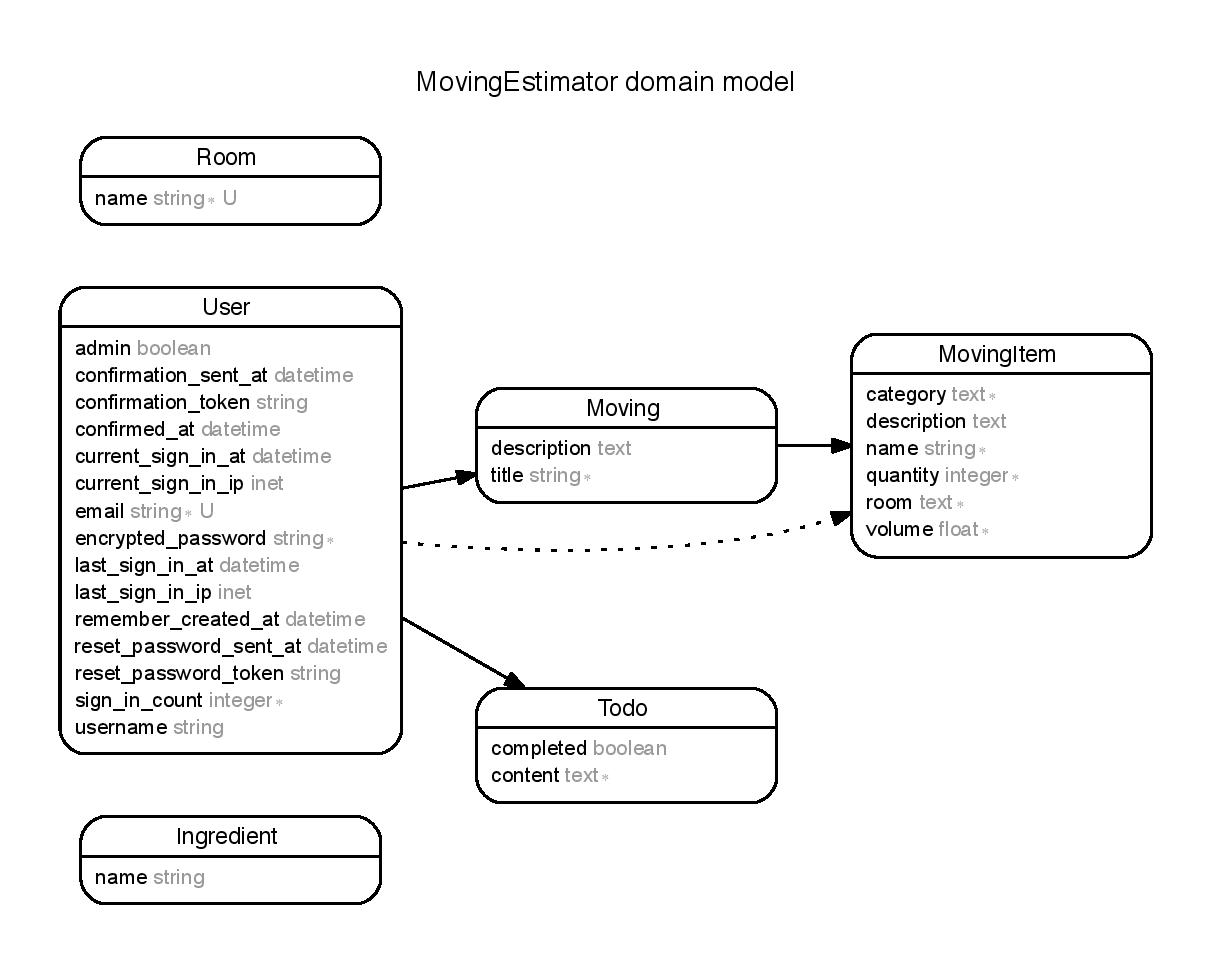
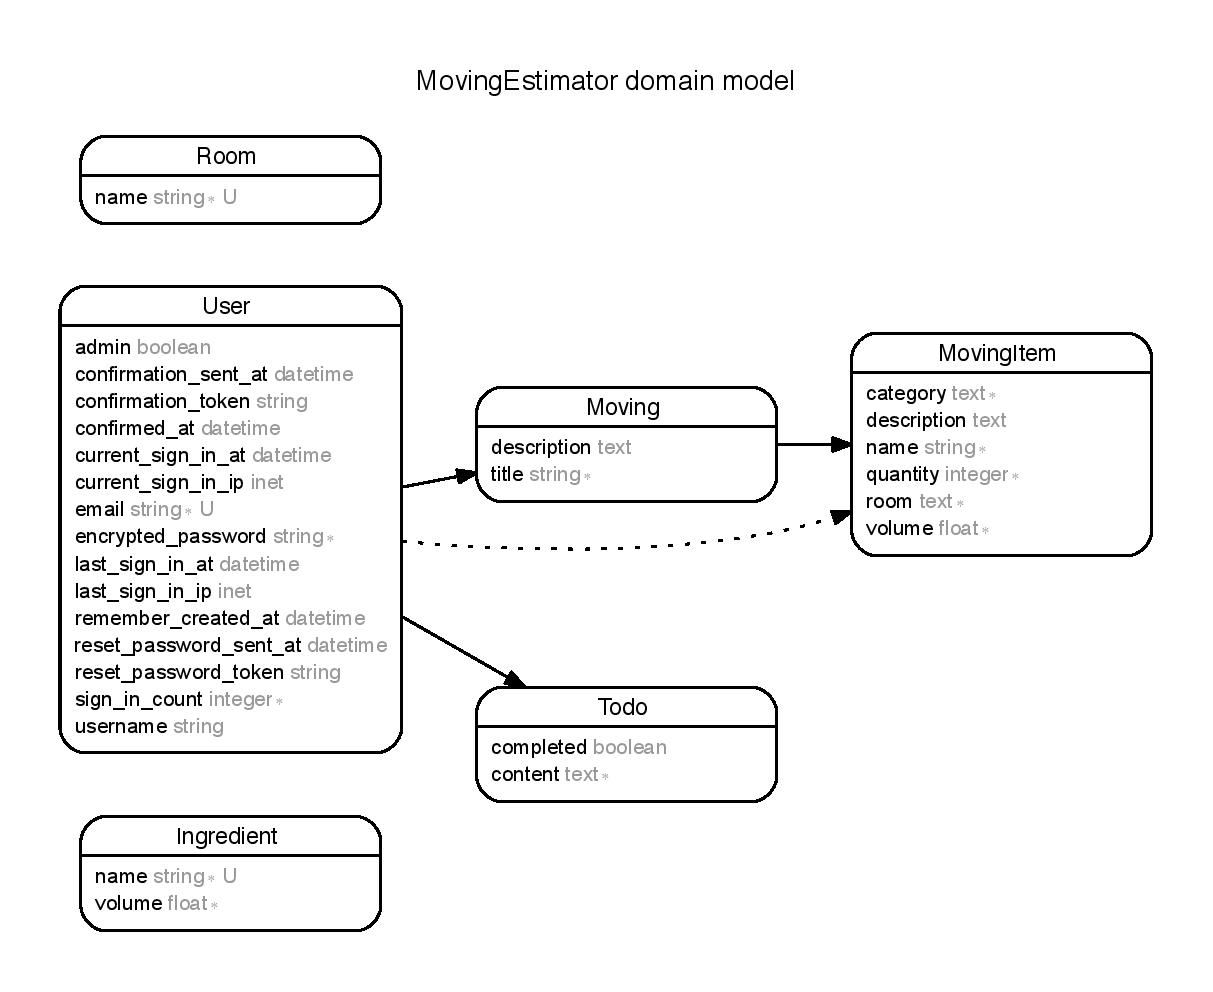
Improve ingredients search

diff --git a/app/models/ingredient.rb b/app/models/ingredient.rb
@@ -10,34 +10,18 @@
 #
 
 class Ingredient < ActiveRecord::Base
-  include PgSearch
 
-  before_save :downcase_input!  # Standardizes on all lower-case words.
+  before_save :downcase_name  # Standardizes on all lower-case words.
 
   validates  :name, presence: true, uniqueness: true, length: { maximum: 50 }
   validates  :volume, presence: true, length: { maximum: 5 }, numericality: true  #<= float
 
   scope :sorted, ->{ order(name: :asc) }
-
-  scope :named, ->(q) { where("name ilike ?", "%#{q}%") }
-
-
-  # pg_search_scope :search,
-  #                 against: [
-  #                   :name,
-  #                   :volume
-  #                 ],
-  #                 using: {
-  #                   tsearch: {
-  #                     prefix: true,
-  #                     normalization: 2
-  #                   }
-  #                 }
+  scope :named, ->(q) { where("name ILIKE :name OR volume = :volume", name: "%#{q}%", volume: q) }
 
   private
 
-    # Converts the input to all lower-case.
-    def downcase_input!
+    def downcase_name
       name.downcase!
     end
 end
